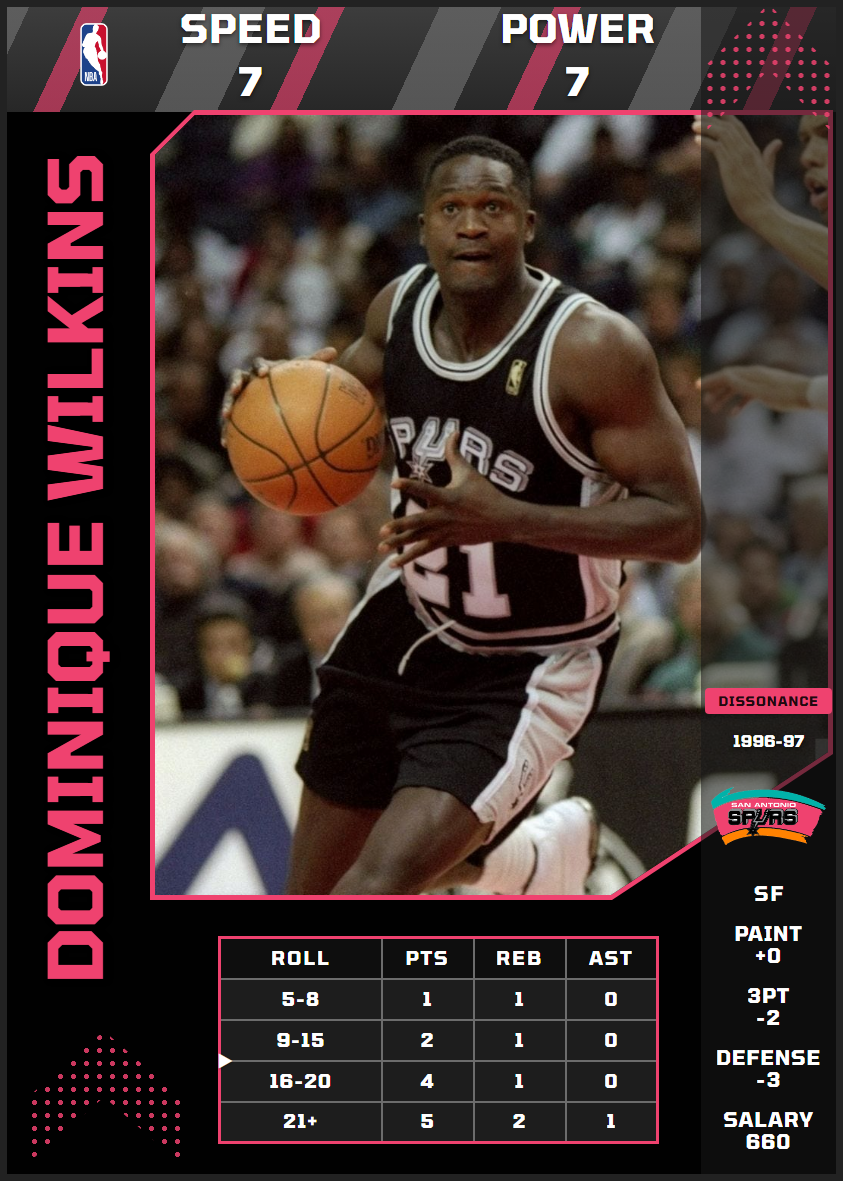
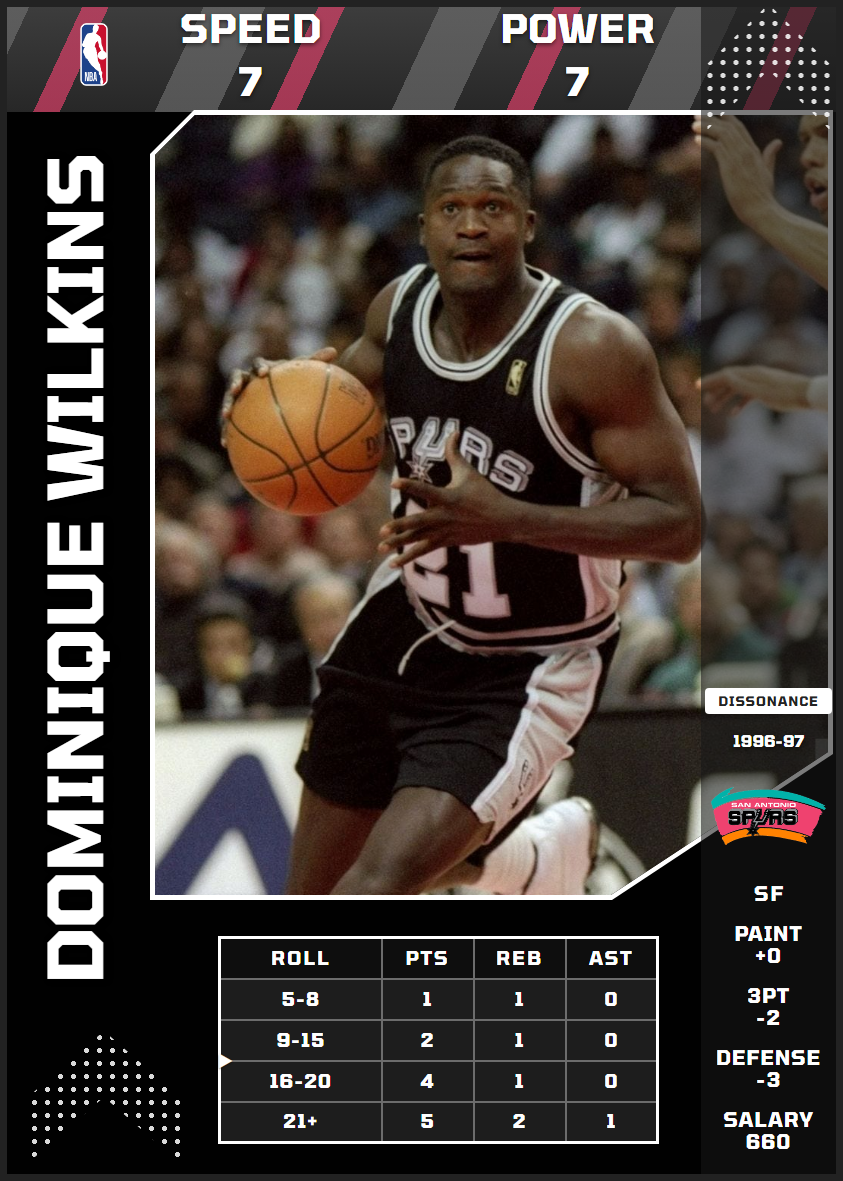
art(teams): SAS90's white accent is the default everywhere
The user: "Yes, make my SAS90 colours the default everywhere". They had
tuned SAS90 in the Studio on the Rookie set (pink secondary, white accent).
The secondary was already the default, so the SAS90 row now also carries
accent #FFFFFF. A team-overrides.json entry reaches only its own set; a row
reaches every set. The Rookie-set override is removed as redundant. SAS90
resolves to #010101 / #EF426F / #FFFFFF.

Re-exported every SAS90 face: Dissonance Wilkins, team-reward Robinson 1994,
Throwback Duncan 2002, and Rookie Duncan, Robinson and Parker. Parker's
Rookie now has the user's photo ("Parker is in").

Also committed: the user's Rookie crops for Wilkins, Lonzo Ball, Deron
Williams and Parker, with those faces re-exported after the crops.

diff --git a/src/cards/teams.js b/src/cards/teams.js
@@ -246,8 +246,12 @@ export const HISTORICAL_TEAMS = {
   // card-art/logo-originals/SAS90.png, white ground stripped. SAMPLED FROM THE
   // FILE: #010101 black (the SPURS lettering and the uniforms) and #EF426F,
   // the pink that is the bulk of the mark; teal #01B2A9 and orange #FF8201
-  // are the other two stripes.
-  SAS90: { name: 'Spurs',     city: 'San Antonio', abbr: 'SAS', primary: '#010101', secondary: '#EF426F', logo: '/logos/SAS90.png', era: '1990-2002' },
+  // are the other two stripes. The WHITE ACCENT is the user's (2026-09-25):
+  // tuned in the Studio on the Rookie set, then "make my SAS90 colours the
+  // default everywhere". pickAccent would take the pink; an accent on the row
+  // is the one place every set inherits from, where a team-overrides.json
+  // entry reaches only its own set.
+  SAS90: { name: 'Spurs',     city: 'San Antonio', abbr: 'SAS', primary: '#010101', secondary: '#EF426F', accent: '#FFFFFF', logo: '/logos/SAS90.png', era: '1990-2002' },
   PHI97: { name: '76ers',    city: 'Philadelphia', abbr: 'PHI', primary: '#000000', secondary: '#C8102E', logo: '/logos/PHI97.png', era: '1998-2009', unverifiedColors: true },
   ORL89: { name: 'Magic',    city: 'Orlando',     abbr: 'ORL', primary: '#0077C0', secondary: '#000000', logo: '/logos/ORL89.png', era: '1989-2000', unverifiedColors: true },
   ORL01: { name: 'Magic',    city: 'Orlando',     abbr: 'ORL', primary: '#0077C0', secondary: '#C4CED4', logo: '/logos/ORL01.png', era: '2001-2010', unverifiedColors: true },
